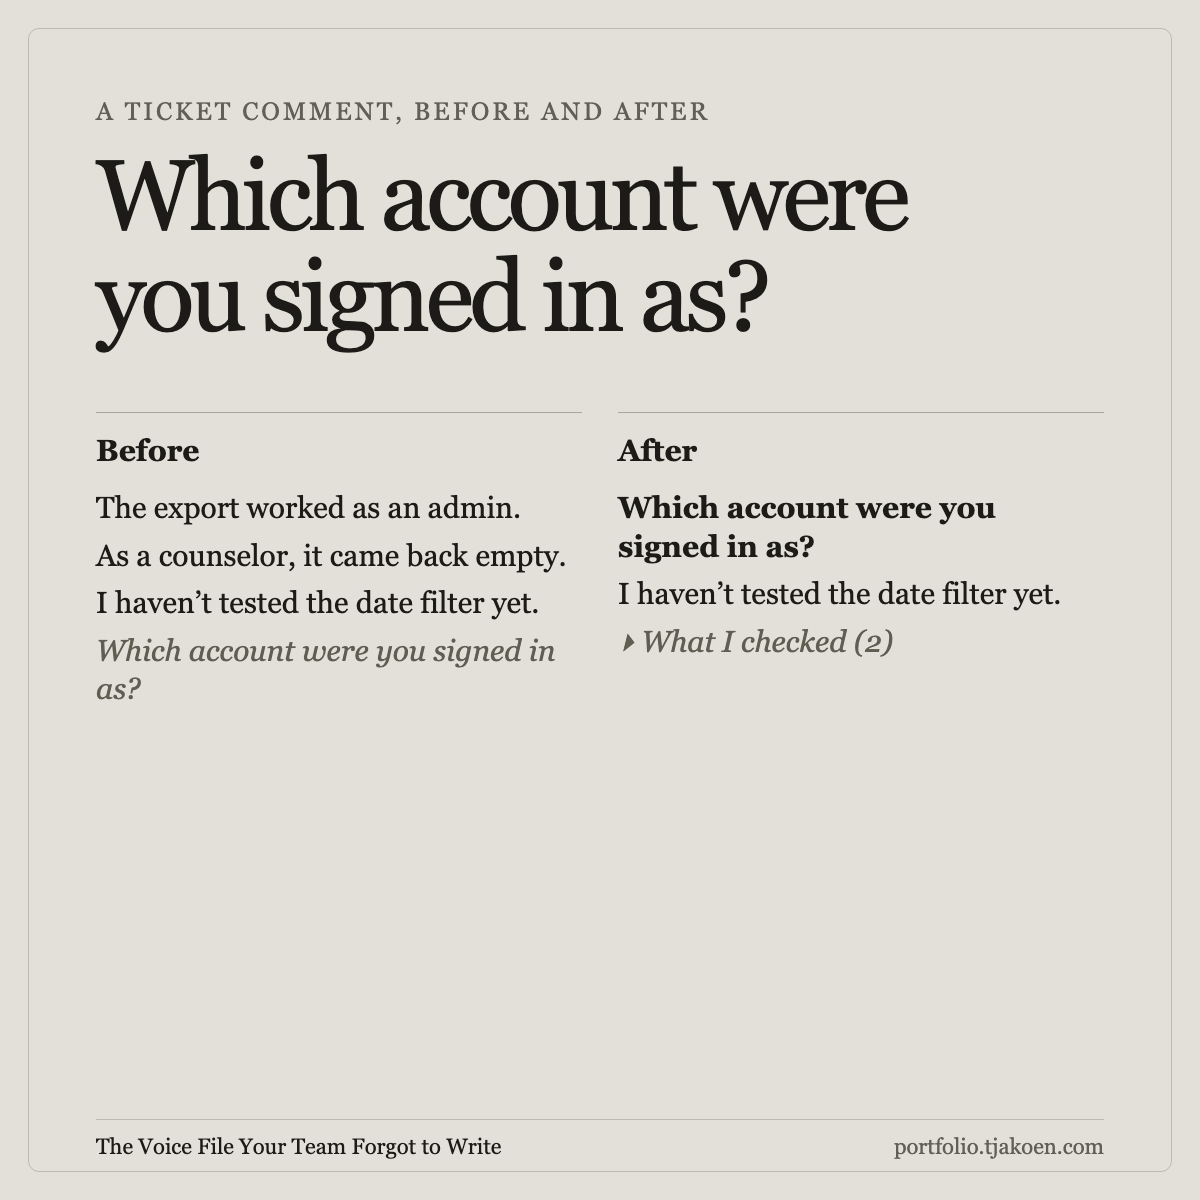
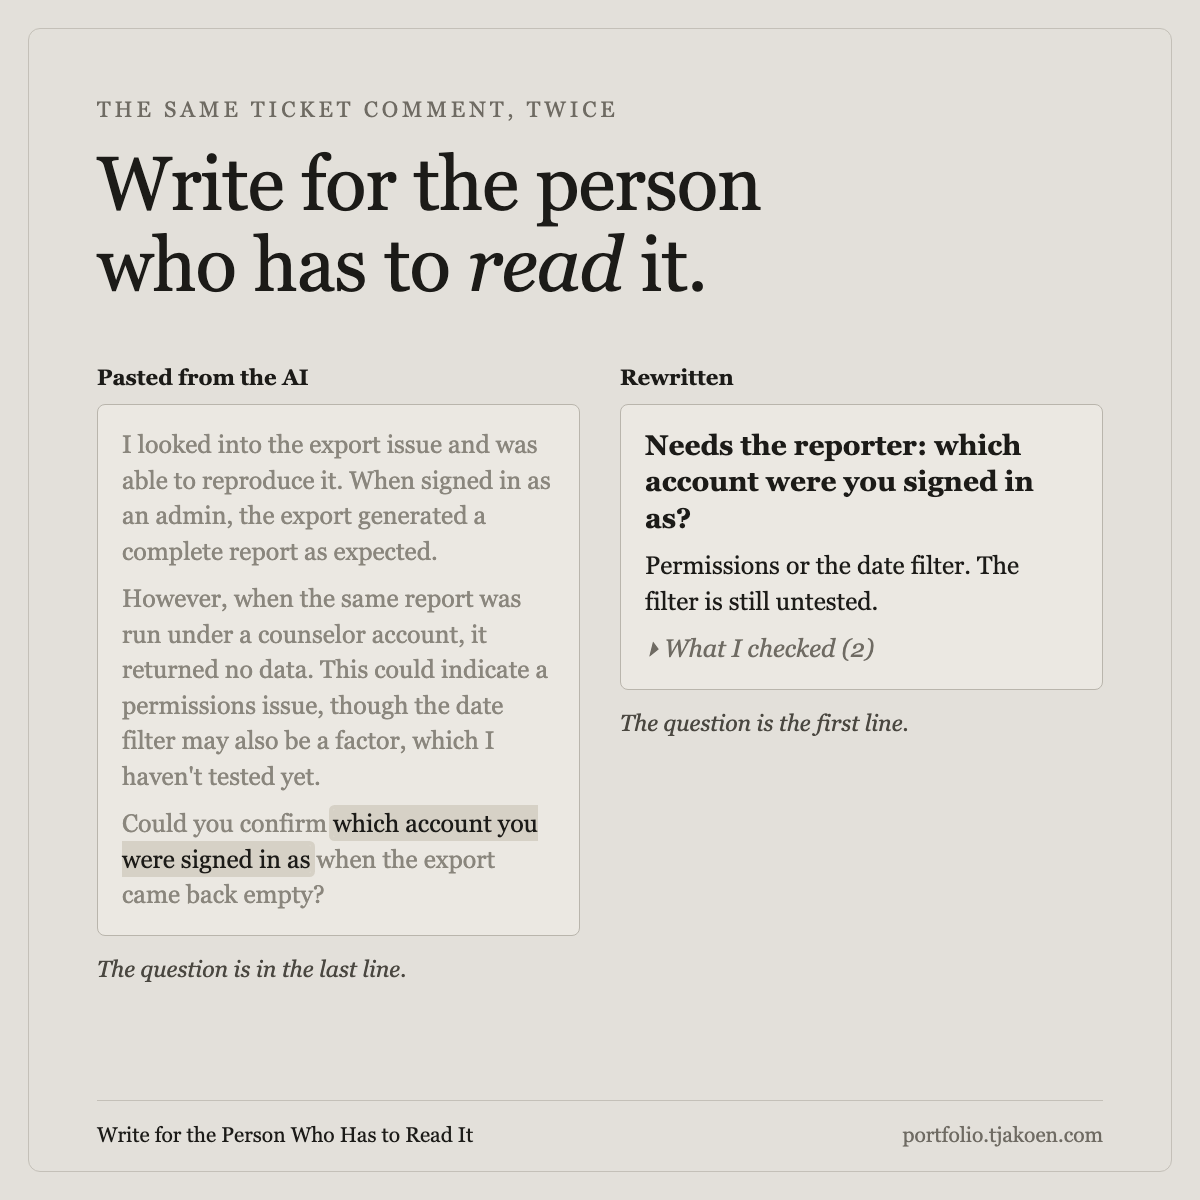
Redraw the voice file social image around the buried question
The old card repeated the question as its headline, carried the note's
old title in the footer, and left half the frame empty. The new one
leads with the note's title and shows the pasted comment beside the
rewrite, with the buried question marked.

diff --git a/content/notes/the-voice-file.md b/content/notes/the-voice-file.md
@@ -20,7 +20,7 @@ social: |
 
   I keep the before-and-after pairs in a short VOICE.md so the agent starts from them too.
 socialImage: "/media/notes/the-voice-file-social-ticket.png"
-socialImageAlt: "Two versions of an export ticket comment. The first ends by asking which account the reporter used. The second opens with that question, keeps the untested date filter visible, and folds the two account checks."
+socialImageAlt: "Write for the person who has to read it. The same ticket comment twice: pasted from the AI, three paragraphs with the question in the last line; rewritten, the question opens it, the untested date filter stays visible, and the checks fold under a label."
 ---
 
 Your class project is due tomorrow. The submission asks you to explain what your app does and what you tested. You give an AI your notes and ask for a paragraph to paste into the project report. It writes, “The application provides a consistent authentication experience across devices.” You tested sign-in on your own laptop.
